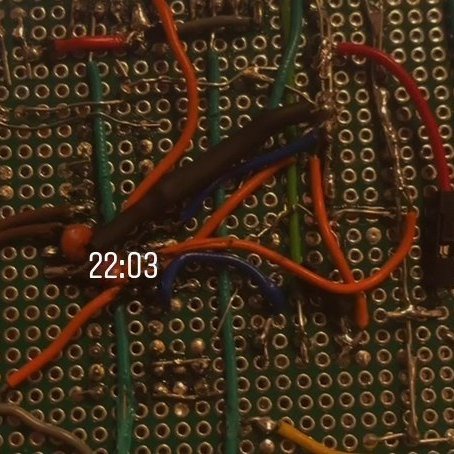
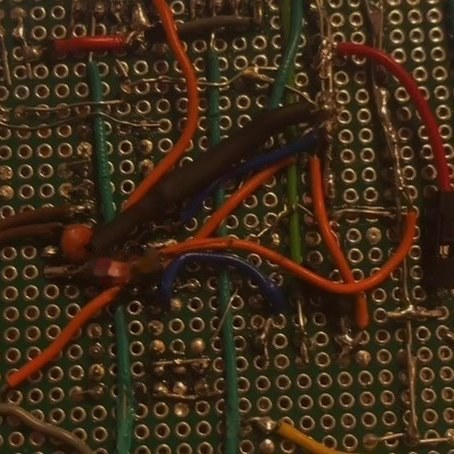
Sir Sucks-a-Lot: the name, MIT for everything, a cleaner photo (#3)
Claude-Session: https://claude.ai/code/session_012pUH2L812z2GYTYb9CzJyo

Changed region(s): [[0.185, 0.5551, 0.37, 0.6167]]

diff --git a/README.md b/README.md
@@ -1,4 +1,4 @@
-# The Mega Extractor 5000
+# Sir Sucks-a-Lot
 
 A solder fume extractor for the electronics bench: two 120 mm PWM fans pull the fumes
 through a mesh pre-filter and an activated-carbon pad. A bare ATmega328P sets the fan
@@ -42,7 +42,7 @@ back: at 64 % they ran at 1800 and 1830 rpm. Drawing set SFE-2026 **Rev E**, fir
   </tr>
   <tr>
     <td><img src="images/photos/soldering-timelapse.gif" alt="Soldering the bare-wire buses on the perfboard, sped up"><br><b>Building it:</b> soldering the bus wires, 6× speed</td>
-    <td><img src="images/photos/poster.jpg" alt="Project poster: The Mega Extractor 5000"><br><b>The poster</b></td>
+    <td><img src="images/photos/poster.jpg" alt="Project poster: Sir Sucks-a-Lot, solder fume extractor, over the sheet 1 schematic"><br><b>The poster</b> (sheet 1 as it was at Rev D)</td>
   </tr>
 </table>
 
@@ -141,4 +141,6 @@ power-up and continuity checks before installing the microcontroller.
 
 ## License
 
-MIT
+[MIT](LICENSE): open source, all of it. That covers the firmware, the drawings, the
+docs and the 3D-printed case (the four `.stl` files). Build one, change it, sell it; just
+keep the copyright notice with it.

diff --git a/CHANGELOG.md b/CHANGELOG.md
@@ -12,6 +12,10 @@
   what is on the prototype); sheets 1, 2 and the pot detail, the perfboard layout and the
   Maker Forge project file all follow. Build an early board with the pot on pin 23? Move
   the wire to pin 25, or set `PIN_POT` back to `A0`.
+- The project has a name: **Sir Sucks-a-Lot** (it was "The Mega Extractor 5000" for a day).
+  The README title and the poster carry it; the repository keeps its name, so links still work.
+- The whole project is MIT licensed, the 3D-printed case (`.stl` files) included; the
+  README says so.
 - README: photos and short clips of the finished build, an as-built table, the status
   changed to finished. The photos are cropped to the hardware.
 - Build guide: points to the build log up front; pin table and free-pin list updated.

diff --git a/CLAUDE.md b/CLAUDE.md
@@ -6,7 +6,7 @@ then moved to the board) reads a 10 k pot, makes 25 kHz PWM through a 2N2222A, r
 fans' tachometers, and shows speed, RPM, faults and filter hours on a 1602 I2C LCD.
 
 **Status:** drawing set **Rev E**, firmware **v1.3** (pot on A2). The owner's prototype
-("The Mega Extractor 5000"; the name may change) is **finished and working** as of
+(named **"Sir Sucks-a-Lot"** on 2026-11-15, first called "The Mega Extractor 5000") is **finished and working** as of
 2026-11-14: their own placement on a 7×9 cm board, not sheet 4's. See "Owner's build" below
 and `docs/Build_Log.md`.
 

diff --git a/docs/Build_Log.md b/docs/Build_Log.md
@@ -1,6 +1,6 @@
 # Build log — the prototype
 
-The first unit was finished on 14 November 2026 and works: the knob sets both fans'
+The first unit, Sir Sucks-a-Lot, was finished on 14 November 2026 and works: the knob sets both fans'
 speed and the LCD reads them back (64 % gave 1800 and 1830 rpm). Getting there took two
 days of debugging and seven faults. Six were wiring, soldering or assembly mistakes, not
 bad parts; the seventh was a damaged input pin on the chip.
